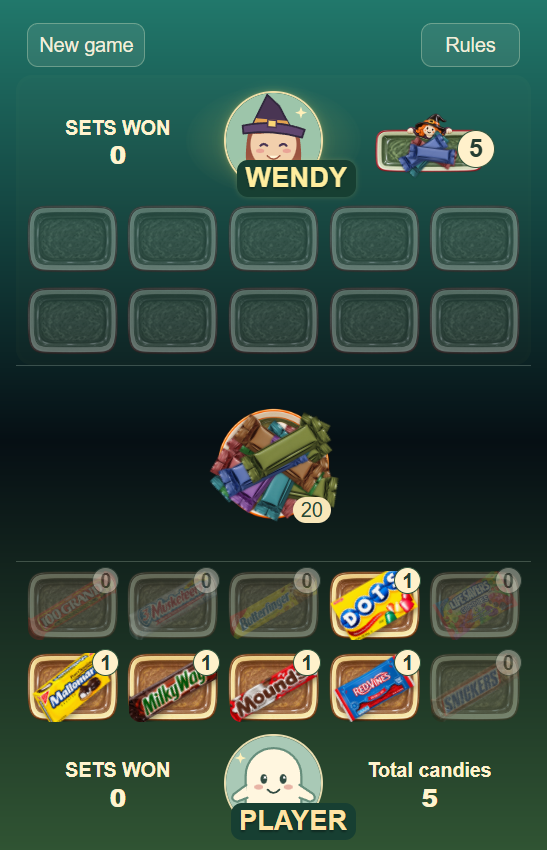
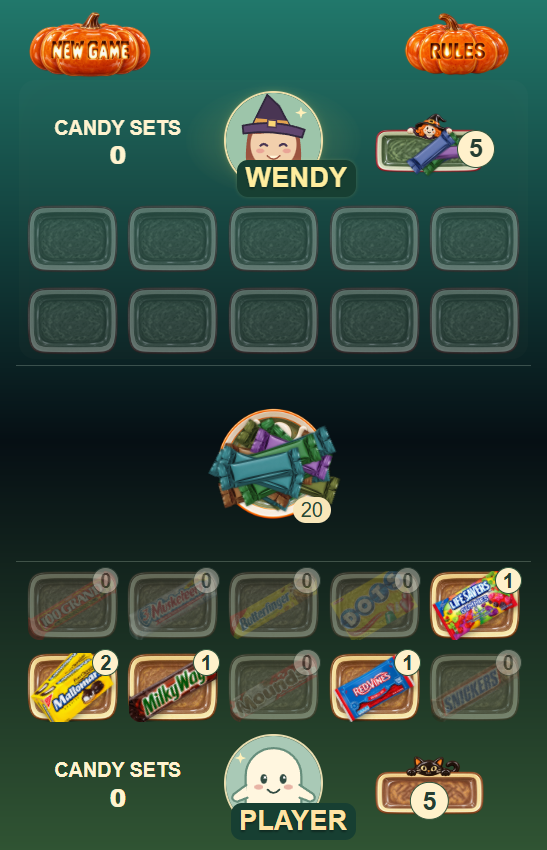
Polish Candy Go Fish UI and prevent opening sets

diff --git a/games/candy-go-fish/candy-go-fish.css b/games/candy-go-fish/candy-go-fish.css
@@ -11,9 +11,11 @@ button:focus-visible { outline: 0.8vw solid #ffd56c; outline-offset: 0.7vw; }
 .center-area { grid-row: 3; }
 #humanArea { grid-row: 4; }
 .game-bar { display: flex; align-items: center; justify-content: space-between; font-size: max(12px,3.6vw); padding: 2vw 2vw 0; }
-.game-bar button { min-height: 13vw; min-width: 18vw; background: transparent; color: #f1eedb; font-size: max(12px,3.6vw); }
-.game-bar button > span { display: block; padding: 1.4vw 2vw; border: 0.3vw solid #dce7c957; border-radius: 2vw; background: #e5efd61a; }
-.game-bar button:active > span { background: #e5efd63a; }
+.game-bar button { position: relative; width: 23vw; min-height: 13vw; background: transparent center / contain no-repeat; color: #382313; font-size: max(12px,3.6vw); font-weight: bold; }
+#newGame { background-image: url('./assets/buttons/ceramic-pumpkin-new-game-v2-carved.png'); }
+#rulesButton { background-image: url('./assets/buttons/ceramic-pumpkin-rules-v3-carved.png'); }
+.game-bar button > span { position: absolute; width: 1px; height: 1px; padding: 0; overflow: hidden; clip-path: inset(50%); white-space: nowrap; }
+.game-bar button:active { transform: translateY(0.4vw); }
 .portrait { width: 18vw; height: 18vw; border-radius: 50%; object-fit: cover; border: 0.5vw solid #e8dcaf; }
 .wendy-portrait, .player-portrait { position: relative; width: 24vw; height: 19vw; display: flex; justify-content: center; }
 .portrait-name { position: absolute; right: -3vw; bottom: -0.3vw; font-size: max(14px,5vw); background: #173f32; color: #ffe3a4; border-radius: 2vw; padding: 0 1.5vw; text-shadow: 0 0.3vw 0.4vw #0005; }
@@ -23,11 +25,12 @@ button:focus-visible { outline: 0.8vw solid #ffd56c; outline-offset: 0.7vw; }
 .portrait-active .portrait-name { box-shadow: 0 0 3vw 0.7vw #ffe16b77; color: #ffed9e; }
 .portrait { position: relative; transition: box-shadow 350ms, border-color 350ms; }
 .portrait-name { transition: box-shadow 350ms; }
-.portrait-score { white-space: nowrap; font-weight: bold; color: #fff3cf; justify-self: center; text-align: center; line-height: 1.2; }
+.portrait-score { font-weight: bold; color: #fff3cf; justify-self: center; text-align: center; line-height: 1.2; }
 .portrait-score span { display: block; font-size: max(12px,3.6vw); }
 .portrait-score strong { display: block; font-size: max(14px,4.5vw); }
-.player-area { border-radius: 3vw; padding: 1.5vw 2vw; transition: background 400ms, box-shadow 400ms; }
-.player-area.active { background: #fff0a511; box-shadow: inset 0 0 8vw #ffe89b0b; }
+.player-area { position: relative; isolation: isolate; border-radius: 3vw; padding: 1.5vw 2vw; }
+.player-area::before { content: ''; position: absolute; inset: 1vw 0.5vw; border-radius: 3vw; background: #fff0a511; box-shadow: inset 0 0 8vw #ffe89b0b; opacity: 0; pointer-events: none; z-index: -1; transition: opacity 400ms; }
+.player-area.active::before { opacity: 1; }
 .player-heading { height: 22vw; display: grid; grid-template-columns: 1fr 24vw 1fr; align-items: center; justify-items: center; gap: 0; }
 .eyebrow { font-size: max(12px,3.6vw); letter-spacing: 0.1vw; color: #c5d6be; }
 h2 { font-size: max(14px,4.5vw); }
@@ -54,7 +57,7 @@ h2 { font-size: max(14px,4.5vw); }
 .slot.selected { border-color: #ffe08a; box-shadow: 0 0 0 0.5vw #ffe08a55; background: #ffe08a26; }
 .badge { position: absolute; right: -0.6vw; top: -0.8vw; min-width: 5vw; height: 5vw; border-radius: 50%; background: #fff1cb; color: #243d31; display: grid; place-items: center; font-size: max(12px,3.6vw); font-weight: bold; border: 0.3vw solid #31543c; z-index: 2; }
 .slot.complete { background: #91c57729; border-color: #b8df85; }
-.slot.complete .badge { background: #b4e68c; color: #1c4c32; }
+.slot.complete .badge { background: #b4e68c; color: #1c4c32; min-width: 6.25vw; height: 6.25vw; font-size: max(15px,4.5vw); }
 .center-area { border-top: 0.25vw solid #d9ecd83b; border-bottom: 0.25vw solid #d9ecd83b; display: flex; flex-direction: column; justify-content: center; gap: 1vw; }
 .center-area.finished > :not(.game-over) { display: none; }
 .game-over { text-align: center; line-height: 1.2; padding: 1vw 2vw; border-radius: 3vw; background: #103e32; border: 0.3vw solid #d8db9c66; }
@@ -65,6 +68,15 @@ h2 { font-size: max(14px,4.5vw); }
 #gameOverNew span { display: block; padding: 1.5vw 3vw; background: #efd293; color: #293f31; border-radius: 2vw; }
 #message { grid-column: 1; grid-row: 1; font-size: max(12px,3.6vw); text-align: left; line-height: 1.35; overflow-wrap: anywhere; }
 #message.on-right { grid-column: 3; }
+#message.choose-instruction {
+  grid-column: 1 / -1; grid-row: 1; justify-self: center; align-self: center;
+  width: 48vw; min-height: 13vw; padding: 2vw 3vw; z-index: 4;
+  display: grid; place-items: center; text-align: center;
+  border: 0.3vw solid #f8dfa1; border-radius: 3vw;
+  background: #f5e8c5; color: #254333; box-shadow: 0 1vw 3vw #061d2538;
+  pointer-events: none;
+}
+#message.choose-instruction::before, #message.choose-instruction::after { content: none; }
 #heldOpponentQuestion { grid-column: 1; grid-row: 1; font-size: max(12px,3.6vw); text-align: left; line-height: 1.2; }
 .speech-request { padding: 2vw; border: 0.3vw solid #f8dfa1; border-radius: 3vw 3vw 3vw 0.5vw; background: #f5e8c5; color: #254333; box-shadow: 0 1vw 3vw #061d2538; }
 .speech-speaker { display: block; font-size: max(12px,3.6vw); font-weight: normal; color: inherit; margin-bottom: 1vw; }
@@ -178,6 +190,7 @@ h1 { font-size: max(24px,9vw); line-height: 1.15; margin: 3vw 0 4vw; }
 @media (prefers-reduced-motion: reduce) { #fishButton.waiting-breath, #message.yes-answer.waiting-breath { animation: none !important; } }
 
 .hand-pile .player-dish { display: block; width: 100%; height: 100%; object-fit: contain; pointer-events: none; }
+#humanPile .hand-count { left: 50%; top: 75% !important; right: auto !important; transform: translate(-50%, -50%); }
 
 /* Plain ceramic dishes replace only the human grid's outlined tiles. */
 #humanSlots .slot { border-color: transparent; background: transparent; box-shadow: none; }

diff --git a/games/candy-go-fish/index.html b/games/candy-go-fish/index.html
@@ -8,9 +8,9 @@
 </head>
 <body>
   <main id="table">
-    <header class="game-bar"><button id="newGame"><span>New game</span></button><button id="rulesButton"><span>Rules</span></button></header>
+    <header class="game-bar"><button id="newGame"><span>NEW GAME</span></button><button id="rulesButton"><span>RULES</span></button></header>
     <section id="wendyArea" class="player-area">
-      <div class="player-heading"><span id="wendySetCount" class="portrait-score"><span>SETS WON</span><strong>0</strong></span><div class="wendy-portrait"><img class="portrait" src="./assets/friendly-witch.svg" alt="Wendy, a friendly witch" draggable="false"><strong class="portrait-name">WENDY</strong></div><div id="wendyPile" class="hand-pile" aria-label="Wendy's hidden hand"><img class="player-dish" src="./assets/candy-dish/witch-tray-green-red-v1-260x143.png" alt="" draggable="false"><span id="wendyCount" class="badge hand-count">5</span></div></div>
+      <div class="player-heading"><span id="wendySetCount" class="portrait-score"><span>CANDY SETS</span><strong>0</strong></span><div class="wendy-portrait"><img class="portrait" src="./assets/friendly-witch.svg" alt="Wendy, a friendly witch" draggable="false"><strong class="portrait-name">WENDY</strong></div><div id="wendyPile" class="hand-pile" aria-label="Wendy's hidden hand"><img class="player-dish" src="./assets/candy-dish/witch-tray-green-red-v1-260x143.png" alt="" draggable="false"><span id="wendyCount" class="badge hand-count">5</span></div></div>
       <div id="wendySlots" class="slots" aria-label="Wendy's completed sets"></div>
     </section>
     <section class="center-area">
@@ -19,7 +19,7 @@
     </section>
     <section id="humanArea" class="player-area">
       <div id="humanSlots" class="slots" aria-label="Your candy hand"></div>
-      <div class="player-heading human-heading"><span id="humanSetCount" class="portrait-score"><span>SETS WON</span><strong>0</strong></span><div class="player-portrait"><img class="portrait" src="./assets/friendly-ghost.svg" alt="You, a friendly ghost" draggable="false"><strong class="portrait-name">PLAYER</strong></div><span id="humanTotalCandies" class="portrait-score"><span>Total candies</span><strong id="humanCount">5</strong></span></div>
+      <div class="player-heading human-heading"><span id="humanSetCount" class="portrait-score"><span>CANDY SETS</span><strong>0</strong></span><div class="player-portrait"><img class="portrait" src="./assets/friendly-ghost.svg" alt="You, a friendly ghost" draggable="false"><strong class="portrait-name">PLAYER</strong></div><div id="humanPile" class="hand-pile" aria-label="Your candy hand"><img class="player-dish" src="./assets/candy-dish/black-cat-tray-brown-yellow-v1-260x143.png" alt="" draggable="false"><span id="humanCount" class="badge hand-count">5</span></div></div>
     </section>
   </main>
   <div id="overlay" class="overlay"><section class="dialog" aria-modal="true" role="dialog" aria-labelledby="dialogTitle"><span class="eyebrow">A LITTLE FRIENDLY COMPETITION</span><h1 id="dialogTitle">Candy<br>Go Fish</h1><div id="dialogBody"><p>Ask Wendy for candies. Collect matching candies to claim a set.</p><p>Pick a candy you hold, then tap <b>Got any?</b> A match gives you one candy and another request. Go fish? Tap the Candy Dish to draw once, then switch turns.</p></div><button id="dialogAction" class="primary">Let's play</button><button id="dialogCancel" class="secondary" hidden>Keep playing</button></section></div>

diff --git a/games/candy-go-fish/candy-go-fish.js b/games/candy-go-fish/candy-go-fish.js
@@ -116,12 +116,12 @@
     for (const player of ['human', 'wendy']) {
       el(player + 'Area').classList.toggle('active', displayedTurn === player && !state.finished);
       const total = state.sets[player].length;
-      const scoreLabel = document.createElement('span'); scoreLabel.textContent = 'SETS WON';
+      const scoreLabel = document.createElement('span'); scoreLabel.textContent = 'CANDY SETS';
       const scoreNumber = document.createElement('strong'); scoreNumber.textContent = total;
       el(player + 'SetCount').replaceChildren(scoreLabel, scoreNumber);
       el(player + 'SetCount').setAttribute('aria-label', config.players[player].name + ' has ' + total + (total === 1 ? ' set' : ' sets'));
       if (el(player + 'Count')) el(player + 'Count').textContent = state.hands[player].length;
-      if (player === 'human') el('humanTotalCandies').setAttribute('aria-label', humanName + ' holds ' + state.hands.human.length + (state.hands.human.length === 1 ? ' candy' : ' candies'));
+      if (player === 'human') el('humanPile').setAttribute('aria-label', humanName + ' holds ' + state.hands.human.length + (state.hands.human.length === 1 ? ' candy' : ' candies'));
       el(player + 'Pile')?.setAttribute('aria-label', config.players[player].name + ' holds ' + state.hands[player].length + (state.hands[player].length === 1 ? ' candy' : ' candies'));
       for (const type of config.layout.slotOrder) {
         const slot = el(player + '-' + type), quantity = CandyEngine.count(state.hands[player], type);
@@ -181,6 +181,7 @@
     }
     // One message uses a free side of the dish; buttons supply obvious actions.
     if (phase === 'choose') el('message').textContent = selected ? '' : 'Choose a candy from your hand.';
+    el('message').classList.toggle('choose-instruction', phase === 'choose' && !selected);
     if (phase === 'thinking') el('message').textContent = '';
     if (phase === 'humanFishWait') el('message').replaceChildren();
     if (phase === 'choose') messageSpeaker = 'human';
@@ -460,11 +461,10 @@
     el('message').classList.remove('speech-request', 'yes-answer', 'waiting-breath');
     phase = 'drawing'; render();
     setMessageSpeaker(actor);
-    if (actor === 'wendy') { el('message').textContent = 'Go fish, ' + opponentName + '!'; if (!await waitActive(500, token)) return; }
     const drawingCard = state.pile[0];
     const pileFlight = piles.begin(drawingCard, el('centerCircle'));
     const events = CandyEngine.fish(state), draw = events[0]; WendyPlayer.observe(memory, events);
-    el('message').textContent = actor === 'human' ? 'You drew ' + byId.get(draw.type).shortName + '.' : opponentName + ' draws a candy.';
+    el('message').textContent = actor === 'human' ? 'You drew ' + byId.get(draw.type).shortName + '.' : '';
     piles.render(state);
     const destination = actor === 'human' ? el('human-' + draw.type) : el('wendyPile');
     if (!await fly(draw.type, pileFlight.source, piles.destination(drawingCard, destination), actor === 'wendy', token, actor === 'wendy' ? pileFlight.candy : null)) return;

diff --git a/games/candy-go-fish/game-engine.js b/games/candy-go-fish/game-engine.js
@@ -37,10 +37,14 @@
       turn: random() < 0.5 ? 'human' : 'wendy', pending: null, finished: false,
       copies: config.rules.copiesPerType, typeCount: config.candies.length, history: [] };
     for (let index = 0; index < config.rules.initialHandSize; index++) {
-      for (const player of ['human', 'wendy']) { if (state.pile.length) state.hands[player].push(state.pile.shift()); }
+      for (const player of ['human', 'wendy']) {
+        if (!state.pile.length) continue;
+        // Leave a set-completing card in the dish and deal the next eligible one.
+        const next = state.pile.findIndex(card => count(state.hands[player], card.type) < state.copies - 1);
+        if (next < 0) throw new Error('Cannot deal the initial hand without a completed set');
+        state.hands[player].push(state.pile.splice(next, 1)[0]);
+      }
     }
-    collectSets(state, 'human', []);
-    collectSets(state, 'wendy', []);
     checkFinish(state);
     return state;
   }

diff --git a/index.html b/index.html
@@ -31,7 +31,7 @@
 
     <!-- The ?v= tag forces phones to fetch fresh code after a publish.
      Change it (and APP_VERSION in app.js) whenever the code changes. -->
-    <link rel="stylesheet" href="./app/styles.css?v=2026-1011-candy-piles" />
+    <link rel="stylesheet" href="./app/styles.css?v=2026-1012-candy-ui" />
   </head>
 
   <body>
@@ -124,6 +124,6 @@
       </div>
     </div>
 
-    <script src="./app/app.js?v=2026-1011-candy-piles"></script>
+    <script src="./app/app.js?v=2026-1012-candy-ui"></script>
   </body>
 </html>

diff --git a/app/app.js b/app/app.js
@@ -20,7 +20,7 @@
 
 // Bump this (and the ?v= tags in index.html) whenever code changes, so
 // phones fetch fresh copies instead of old cached ones.
-const APP_VERSION = "2026-1011-candy-piles";
+const APP_VERSION = "2026-1012-candy-ui";
 
 /* ------------------------------------------------------------------------
    1. Settings and the games list

diff --git a/games/candy-go-fish/codex-john-docs/CONTINUATION-2026-1011.md b/games/candy-go-fish/codex-john-docs/CONTINUATION-2026-1011.md
@@ -1,15 +1,19 @@
-# Candy Go Fish — current handoff, October 11, 2026
+# Candy Go Fish — current handoff, updated October 12, 2026
 
 This is the authoritative current-state entry point. Overall gameplay is acceptable; appearance work is ongoing. Historical design notes and checkpoint copies record alternatives and must not override this handoff.
 
+October 12 UI update supersedes the footer descriptions below: both score labels now read CANDY SETS. The player's right-side brown/yellow black-cat candy dish is restored, replacing Total candies text. Its live hand-count badge is horizontally centered and lowered to 75% of the dish height to leave the cat's face visible. It is a count display; the player's candies remain in the grid. The restored layout was verified at 338x526 and 547x850: artwork loads, both labels update and the page does not overflow.
+
 ## Current board and artwork
+
+October 12 instruction update: "Choose a candy from your hand" appears in a wide cream rounded box centered over the main dish, matching question-box colors/border/shadow without a tail. It disappears immediately on candy selection. Removed the separate "Go fish, Wendy!" announcement and "Wendy draws a candy" status; her private wrapper flight remains. Player draw status remains. Verified popup dimensions, centering, absent tail and selection dismissal at phone/desktop sizes.
 
 - Background: John's `assets/backgrounds/greenBlueGradient.png`, filling the panel. Original green gradient remains underneath and in the background checkpoint. The generated pumpkin scene was rejected and remains unused.
 - Main Candy Dish: `ghost-plate-v2-300.png`, 21vw square, with count badge above the pile. Version 1 is retained as a fallback.
 - Wendy: green/red witch tray, 20vw by 11vw, with live count badge. Green/red grid dishes are muted until a set is earned; completed sets show the bright dish, named candy and green check.
-- Player: brown/yellow grid dishes with named candy and count badges. Zero-count dishes/badges are dimmed without further dimming the candy artwork. Selected/giveable slots have a small yellow rim glow. The separate cat tray is removed; its footer position now shows Total candies and the live active-hand count, matching SETS WON styling.
+- Player: brown/yellow grid dishes with named candy and count badges. Zero-count dishes/badges are dimmed without further dimming the candy artwork. Selected/giveable slots have a small yellow rim glow. The brown/yellow cat tray is restored on the right; its count badge is centered horizontally at 75% height, below the face. Both score labels read CANDY SETS. Completed-set badges/checkmarks are 125% of normal badge size.
 - Life Savers is the short display name; the full catalog name remains Life Savers Gummies.
-- Original, green/red and brown/yellow witch/cat trays remain as artwork options. Plain sage grid dishes and older board files remain available as fallbacks. Do not silently re-enable the player tray.
+- Original, green/red and brown/yellow witch/cat trays remain as artwork options. Plain sage grid dishes and older board files remain available as fallbacks. The restored player tray displays only the count; do not add a generic player pile.
 
 ## Persistent candy piles and transfers
 
@@ -35,7 +39,7 @@ Successful requests between players fly the actual named candy image in both dir
 
 ## Implemented gameplay
 
-Ten candy types, three copies each: 30 total, five initially dealt per player, 20 initially in the Candy Dish before initially dealt sets collect. First player is random. Request only a currently held type. Success transfers exactly one candy and retains the requester's turn. Three matching candies collect automatically as one set.
+Ten candy types, three copies each: 30 total, five initially dealt per player, 20 initially in the Candy Dish. The initial deal cannot complete a set for either player: both start with five candies and zero collected sets. Set-completing cards are skipped during dealing and remain in the dish. First player is random. Request only a currently held type. Success transfers exactly one candy and retains the requester's turn. Three matching candies collect automatically as one set.
 
 Current engine still ends every fishing turn. Good Fish (a set-completing draw retains the turn) was previously approved as a proposal, but is NOT implemented. Do not silently change rules during appearance work.
 
@@ -62,13 +66,13 @@ All speech boxes have rounded corners and softly curved, wide-base tails: up for
 
 Both answer boxes gently breathe at 4% peak scale: hold natural size for 500ms, ease to the peak over 1000ms, then repeat a one-second peak-to-natural-to-peak cycle. Questions and dish do not breathe. Breathing stops on acknowledgement, auto-transfer, shortcut, dialog or new round, and is disabled for reduced motion.
 
-Candy transfers/draws depart without a source bounce, pulse or glow. Curved accelerating travel remains 1400ms with rotation toward upright and an end fade starting at 82% of the route. Scale smoothly goes 100% -> 150% at route midpoint -> 100% at the destination; previous terminal shrink is removed. Opponent private draws use an unidentified wrapper. Reduced motion uses an 80ms stationary fade. The existing short Wendy-fishing announcement remains.
+Candy transfers/draws depart without a source bounce, pulse or glow. Curved accelerating travel remains 1400ms with rotation toward upright and an end fade starting at 82% of the route. Scale smoothly goes 100% -> 150% at route midpoint -> 100% at the destination; previous terminal shrink is removed. Opponent private draws use an unidentified wrapper. Reduced motion uses an 80ms stationary fade. The separate Wendy-fishing and Wendy-draw status messages are removed.
 
-The gradient board uses two rows of five dishes per player, persistent central/Wendy candy piles, portraits/names and SETS WON totals. Human slots show absent identities faintly and held quantities; opponent active identities remain private. Active portrait/half glows. The central Candy Dish always remains unidentified. Current top controls are New Game and Rules.
+The gradient board uses two rows of five dishes per player, persistent central/Wendy candy piles, portraits/names and CANDY SETS totals. Human slots show absent identities faintly and held quantities; opponent active identities remain private. Active portrait/half glows. The central Candy Dish always remains unidentified. Top controls are ceramic pumpkins with carved candlelit labels: NEW GAME v2 left and RULES v3 right, with matching letter height. Accessible labels remain in visually hidden spans. Side highlights are inset 1vw vertically and 0.5vw horizontally.
 
 ## Current popups and pending design
 
-Earned-set popup has configured player name, candy image, collected-three wording and user-controlled Continue/outside-tap dismissal. Initial dealt sets skip this popup. Game-over banner leaves hands visible, names the result/reason/totals and offers New Game. These are functional but are the first appearance tasks to improve.
+Earned-set popup has configured player name, candy image, collected-three wording and user-controlled Continue/outside-tap dismissal. Initial deals cannot complete a set. Game-over banner leaves hands visible, names the result/reason/totals and offers New Game. These are functional but are the first appearance tasks to improve.
 
 Read NEXT-TODOS.md for the user's next priorities. Older opponent/variant/animation/Good Fish proposals remain separate backlog, not authorization to implement them during appearance work.
 
@@ -93,7 +97,7 @@ Only the existing ../game-helper.js score API is used: Halloween.reportScore(hum
 
 Run python start-local/no-cache-server.py --port 8098 --bind 127.0.0.1, reusing an existing server. Preview /games/candy-go-fish/demo.html or root shell/slot 8. File opening uses the companion. Loopback is PC-only; actual iPhone Safari still needs device review.
 
-Current publishing request: update documentation, verify, commit and push the current appearance/pile work to main. Commit title: "Update candy artwork, persistent piles and transfer visuals". Previous published gameplay checkpoint: 1d7a777 ("Overall gameplay ok, need to work on appearances"). Update APP_VERSION and both root ?v= stamps together before publishing. This authorization does not authorize later pushes.
+October 12 publishing request: refresh docs, verify, commit and push current UI and initial-deal changes to main. October 11 appearance/piles commit was 1df4eac; encoding fix 7f20652 restored Pages deployment. Previous published gameplay checkpoint: 1d7a777 ("Overall gameplay ok, need to work on appearances"). Update APP_VERSION and both root ?v= stamps together before publishing. This authorization does not authorize later pushes.
 
 ## Rollback and verification
 

diff --git a/codex-john-docs/Codex-ToBe-Continued-2026-1011.md b/codex-john-docs/Codex-ToBe-Continued-2026-1011.md
@@ -1,13 +1,15 @@
-# Project continuation — October 11, 2026
+# Project continuation — updated October 12, 2026
 
 Main work is Go Fish Candy Edition in games/candy-go-fish, registered slot 8. Start with its codex-john-docs/CONTINUATION-2026-1011.md and NEXT-TODOS.md. Current gameplay remains triples, stationary speech bubbles, four-second Yes auto-transfers, click-required No draws, middle/grid shortcuts, curved-tail colored boxes and answer breathing.
 
-Appearance now uses greenBlueGradient.png, ghost plate v2, green/red witch tray and Wendy grid dishes, brown/yellow player grid dishes, and Total candies in place of the player cat tray. Empty player dishes/badges are dimmed separately from candy artwork. Life Savers is the short label. Original art/palette options and checkpoint files are retained.
+Appearance now uses greenBlueGradient.png, ghost plate v2, green/red witch tray and Wendy grid dishes, brown/yellow player grid dishes, and the restored brown/yellow player cat tray with a lowered count badge. Labels read CANDY SETS, completed-set badges are 125% size and turn highlights have a small inset. Empty player dishes/badges are dimmed separately from candy artwork. Life Savers is the short label. Original art/palette options and checkpoint files are retained.
 
 Live generic piles persist by engine card ID. Main candy size is 78%, rotation +/-65 degrees and center spread 22% X/20% Y; Wendy size is 45%, rotation +/-50 degrees. Color intensity 50%, brightness about 100%, sizes +/-12%. New deals randomize, redraws preserve arrangement, completed sets remove their cards. Incoming Wendy cards resize for her tray. Transfers between players and player Go Fish draws use actual candy images; only Wendy's private draw flies a generic wrapper. A separate pile-preview.html exposes tuning controls.
 
-Next priorities: earned-set/game-over popups; further pile appearance refinement; generic instructions; top New Game/Rules buttons; sound. Good Fish/variants/opponent strategy remain separate backlog; sound is unimplemented.
+Next priorities: earned-set/game-over popups; further pile appearance refinement; sound. Choice instructions now use a tail-free cream popup over the dish; top buttons are ceramic pumpkins with carved candlelit labels. Initial deals prohibit completed sets: five candies each, zero collected sets. Good Fish/variants/opponent strategy remain separate backlog; sound is unimplemented.
 
-Current user requested verification, refreshed docs and commit/push of these changes. Commit title: Update candy artwork, persistent piles and transfer visuals. Cache stamp: 2026-1011-candy-piles. Previous published checkpoint: 1d7a777, Overall gameplay ok, need to work on appearances. Further pushes require a new user request. 5a33e38 is the last Fast/Slow version; 83c418b predates breathing.
+October 12 user requested refreshed docs, verification and commit/push of current UI and initial-deal changes. Cache stamp: 2026-1012-candy-ui. October 11 appearance/piles commit: 1df4eac. Previous published checkpoint: 1d7a777, Overall gameplay ok, need to work on appearances. Further pushes require a new user request. 5a33e38 is the last Fast/Slow version; 83c418b predates breathing.
 
 Candy Swap remains separate. Keep project-wide notes here and game notes in that game's codex-john-docs/. Shared game requirements in games/ are authoritative. Plain HTML/CSS/JS; no build or newly invented shell settings/audio/pause API.
+
+Publishing follow-up, October 12: GitHub Pages failed on Windows-1252 punctuation in five Markdown files. Commit 7f20652 converted them to UTF-8; deployment succeeded and the current live game was verified. Going forward, save documentation as UTF-8 and strictly validate tracked Markdown files before publishing. Check the actual Pages Actions workflow conclusion, because the Pages API/settings can retain a stale "building" status after failure. Confirm the live site's version stamp and game content after deployment.

diff --git a/games/candy-go-fish/codex-john-docs/UI-AND-PRESENTATION.md b/games/candy-go-fish/codex-john-docs/UI-AND-PRESENTATION.md
@@ -1,8 +1,8 @@
 # Current UI and presentation
 
-Updated October 11, 2026. See [handoff](CONTINUATION-2026-1011.md) for complete current behavior and [next TODOs](NEXT-TODOS.md) for priorities.
+Updated October 12, 2026. See [handoff](CONTINUATION-2026-1011.md) for complete current behavior and [next TODOs](NEXT-TODOS.md) for priorities.
 
-The non-scrolling 9:14 board uses greenBlueGradient.png, two rows of five ceramic dishes per side, portraits/names and SETS WON. Wendy has a green/red witch tray with a persistent generic candy pile/count. The player’s separate cat tray is removed and replaced by Total candies. Human grid dishes are brown/yellow; Wendy’s goal dishes are green/red, muted until completed. Zero-count human dishes/badges dim separately from candy artwork. The main dish is ghost plate v2 with an overflowing generic pile/count. Opponent active identities remain hidden. Human absent identities are faint; one/two held candies use overlapping artwork/counts. The active side/portrait glows. The Candy Dish remains unidentified.
+The non-scrolling 9:14 board uses greenBlueGradient.png, two rows of five ceramic dishes per side, portraits/names and CANDY SETS. Wendy has a green/red witch tray with a persistent generic candy pile/count. The brown/yellow player cat tray is restored on the right; its count badge is horizontally centered at 75% height, below the face. Completed-set badges/checkmarks are 125% of normal size. Human grid dishes are brown/yellow; Wendy’s goal dishes are green/red, muted until completed. Zero-count human dishes/badges dim separately from candy artwork. The main dish is ghost plate v2 with an overflowing generic pile/count. Opponent active identities remain hidden. Human absent identities are faint; one/two held candies use overlapping artwork/counts. The active side/portrait glows. Side highlights are inset 1vw vertically and 0.5vw horizontally. The Candy Dish remains unidentified.
 
 Speech stays in the middle: Wendy left, human right, cream questions, light-green/black Yes, muted-coral No. Speaker asks:/says: labels use normal weight and the main text color. Rounded boxes have broad curved tails: Wendy up, human down. No Fast/Slow control or speech flights remain.
 
@@ -12,6 +12,6 @@ YES retains both boxes for four seconds or an earlier middle click; NO waits ind
 
 Candy has no source bounce/glow. All routes curve/accelerate over 1400ms and fade near arrival. Actual named candy images fly on successful requests in both directions and player Go Fish draws, rotating toward upright and scaling 100%-150%-100%. Only private opponent draws use a generic wrapper: it retains rotation/color and shrinks from its 150% midpoint to Wendy’s resting width. Reduced motion uses stationary fades.
 
-Set popup and game-over banner remain functional and are next to improve. Current top row has only New Game and Rules; both are game-owned. Generic instructions use the middle status text; further pile refinement, instructions, top controls and sound design are upcoming work.
+Set popup and game-over banner remain functional and are next to improve. Top buttons are ceramic pumpkins with carved candlelit text: NEW GAME v2 left and RULES v3 right, matching letter heights. HTML labels are visually hidden for accessibility. The choice instruction is a 48vw-wide tail-free cream popup centered over the dish, hidden immediately on selection. Separate Wendy fishing/draw announcements are removed; her private wrapper flight remains. Further pile refinement, popup polish and sound remain upcoming work.
 
 Live pile defaults and placement are detailed in the current handoff. New deals randomize size/angle/hue/brightness/position once; surviving candies do not move during redraws or set removal. A separate pile-preview.html provides visual tuning controls.

diff --git a/games/candy-go-fish/README.md b/games/candy-go-fish/README.md
@@ -4,15 +4,15 @@ Playable Halloween 2026 mini game, registered in slot 8. Open demo.html for a ce
 
 Start with [current handoff](codex-john-docs/CONTINUATION-2026-1011.md) and [next TODOs](codex-john-docs/NEXT-TODOS.md).
 
-Ten types, three copies each, five initially dealt per player. Request a held type; one-candy success keeps the turn. Triples collect automatically. Fishing currently always ends the turn; the proposed Good Fish rule is not implemented. Empty dish/hand or all sets ends the round after possible final-set collection.
+Ten types, three copies each, five initially dealt per player with no completed sets in either opening hand. Request a held type; one-candy success keeps the turn. Triples collect automatically. Fishing currently always ends the turn; the proposed Good Fish rule is not implemented. Empty dish/hand or all sets ends the round after possible final-set collection.
 
 Both YES answers retain question/reply for four seconds, then transfer automatically; either middle text box or the Candy Dish shortcuts it. Both NO answers wait for a middle click to draw. Tapping a requested held candy during Wendy's request is an immediate gift shortcut.
 
 Quotes fade in place; cream question, light-green Yes, coral No. Curved tails indicate speaker. Answers gently breathe while waiting. Candy travels on a curve without source bounce, scaling 100%-150%-100% with an end fade.
 
-Current artwork uses the green/blue gradient, ghost main plate, green/red Wendy tray/dishes and brown/yellow player dishes. Persistent generic piles track actual card IDs; player footer shows Total candies. Main wrappers overflow the rim slightly; survivors keep their positions when cards move or collect into sets. Requests in either direction and player draws fly actual candy images; only Wendy’s private draw flies a generic wrapper, resizing to her tray.
+Current artwork uses the green/blue gradient, ghost main plate, green/red Wendy tray/dishes and brown/yellow player dishes. Persistent generic piles track actual card IDs; player footer has the restored brown/yellow cat tray with a lowered count badge. Score labels read CANDY SETS; completed-set badges are 125% size. Main wrappers overflow the rim slightly; survivors keep their positions when cards move or collect into sets. Requests in either direction and player draws fly actual candy images; only Wendy’s private draw flies a generic wrapper, resizing to her tray.
 
-Open pile-preview.html for size/rotation/spread/color tuning. Current priorities: improve earned-set/game-over popups, refine pile appearance, generic instructions, top New Game/Rules controls, then sound. See [verification/integration](codex-john-docs/INTEGRATION-AND-VERIFICATION.md) and [configuration](assets/json/README.md).
+Open pile-preview.html for size/rotation/spread/color tuning. Current priorities: improve earned-set/game-over popups, refine pile appearance, then sound. The choice instruction is a tail-free cream popup over the dish; top buttons are ceramic pumpkins with carved candlelit NEW GAME and RULES labels. See [verification/integration](codex-john-docs/INTEGRATION-AND-VERIFICATION.md) and [configuration](assets/json/README.md).
 
 ## Preview
 

diff --git a/games/candy-go-fish/codex-john-docs/NEXT-TODOS.md b/games/candy-go-fish/codex-john-docs/NEXT-TODOS.md
@@ -1,11 +1,11 @@
 # Next work — appearance and sound
 
-Updated October 11, 2026. Overall gameplay is acceptable. Follow these priorities from John; work on each as a separate reviewable change.
+Updated October 12, 2026. Overall gameplay is acceptable. Follow these priorities from John; work on each as a separate reviewable change.
 
 1. Improve the YOU WON A SET popup and game-over popup. Tune visual presentation, recognition and celebration. Preserve clear player/candy/result information, user-controlled earned-set dismissal, final-set celebration before results, visible final hands and replay.
-2. Refine the implemented candy piles after visual review: main dish overflowing slightly, Wendy tray density, overlap/count readability and transfers. Persistent individual candies and live pile removal are implemented. The separate player tray is removed; the player hand remains the grid. Keep private opponent draws unidentified.
-3. Decide how generic instructions should appear, especially "Choose a candy from your hand." Explore a consistent neutral treatment separate from speaker bubbles; do not make instructions look like another player's question/answer.
-4. Decide how to handle the two top buttons, New Game and Rules. Placement/appearance/final arrangement are open. Keep controls game-owned; do not add a game-specific shell toolbar/helper.
+2. Refine the implemented candy piles after visual review: main dish overflowing slightly, Wendy tray density, overlap/count readability and transfers. Persistent individual candies and live pile removal are implemented. The restored cat tray displays only the player count; the player hand remains the grid. Keep private opponent draws unidentified.
+3. Review the implemented choice instruction: wide tail-free cream popup over the dish, hidden immediately on selection. Separate Wendy fishing/draw messages are removed.
+4. Review the installed ceramic pumpkin buttons: NEW GAME left, RULES right, carved candlelit lettering with matching letter height. Keep controls game-owned.
 5. Add sound. First decide events, effects/music and mute behavior, including phone tap activation and immediate silence of already-playing audio when sound is turned off. Shell Sound switches currently store/display preferences but games cannot read them. A working shared sound solution requires coordinated helper/shell changes; a game-owned control is another design option. No audio API or sound assets have been selected or implemented.
 
 These are remaining tasks; the initial candy-pile implementation is now complete. Keep current question/answer defaults, three-candy sets, curved candy flight/scaling, breathing and shortcuts intact unless John requests a change. Good Fish implementation, stronger/selectable opponents, profile customization, 11/4 variants and full animation centralization remain separate older backlog.

diff --git a/games/candy-go-fish/codex-john-docs/PUMPKIN-BUTTONS-2026-1012.md b/games/candy-go-fish/codex-john-docs/PUMPKIN-BUTTONS-2026-1012.md
@@ -1,0 +1,11 @@
+# Ceramic pumpkin button artwork
+
+RULES v3 is active, matching NEW GAME's letter height. Built-in imagegen edit prompt: preserve RULES pumpkin and transparency; use NEW GAME as size reference; shrink RULES uniformly to about 70% of v2 lettering, keeping centered uppercase carved lettering, dark recessed sidewalls and white candlelit interiors. Saved as `ceramic-pumpkin-rules-v3-carved.png`; earlier versions retained.
+
+V2 is now active: `ceramic-pumpkin-new-game-v2-carved.png` and `ceramic-pumpkin-rules-v2-carved.png`. Built-in imagegen edits preserved each pumpkin and transparency, carving exact uppercase NEW GAME / RULES through the ceramic with white candlelight and dark recessed sidewalls for contrast. Visible HTML overlays were removed; visually hidden button text retains accessible names. V1 remains as a fallback.
+
+Generated October 12 with the built-in imagegen tool. The brown/yellow black-cat candy tray supplied the ceramic material reference. Two transparent PNG sources are saved under `../assets/buttons/`: `ceramic-pumpkin-new-game-v1-source.png` and `ceramic-pumpkin-rules-v1-source.png`. Installed at John's direction: first pumpkin is NEW GAME on the left, second is RULES on the right. Buttons are 23vw wide with a 13vw minimum height; labels remain live text centered over the pumpkin bodies.
+
+Prompt 1: One squat, wide orange ceramic pumpkin, no face, carvings or text. Match the tray's warm glossy glazed ceramic, golden cream highlights, subtly mottled burnt-orange glaze and rounded handcrafted contours. Front view with slight top visible, short brown ceramic stem, broad gently ribbed body, approximately 1.6:1 width to height. Calm unobstructed center for a later NEW GAME overlay. Genuine transparent background, whole object visible, small margin; readable at a small game-button size. No leaves, props, eyes, mouth, lettering or watermark.
+
+Prompt 2: A matching orange ceramic pumpkin with slightly different rib proportions and a stem leaning left. Match the first pumpkin's glaze, highlights, silhouette, lighting and scale. Calm center for a later RULES overlay. Same transparency, composition and exclusions as the first asset.
